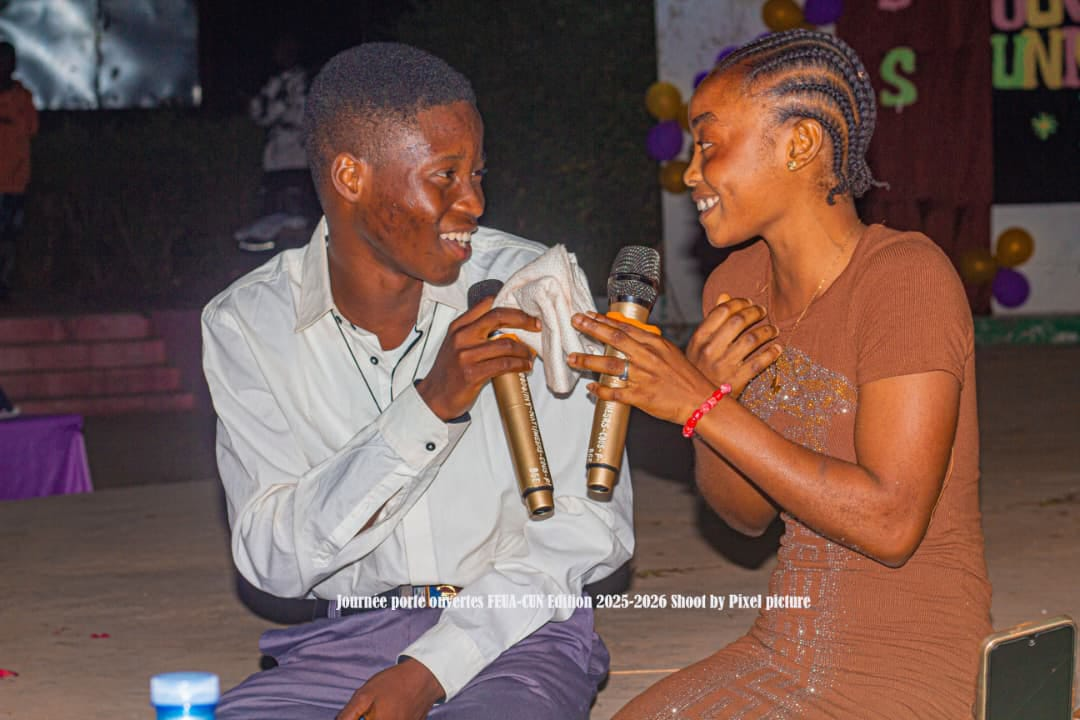
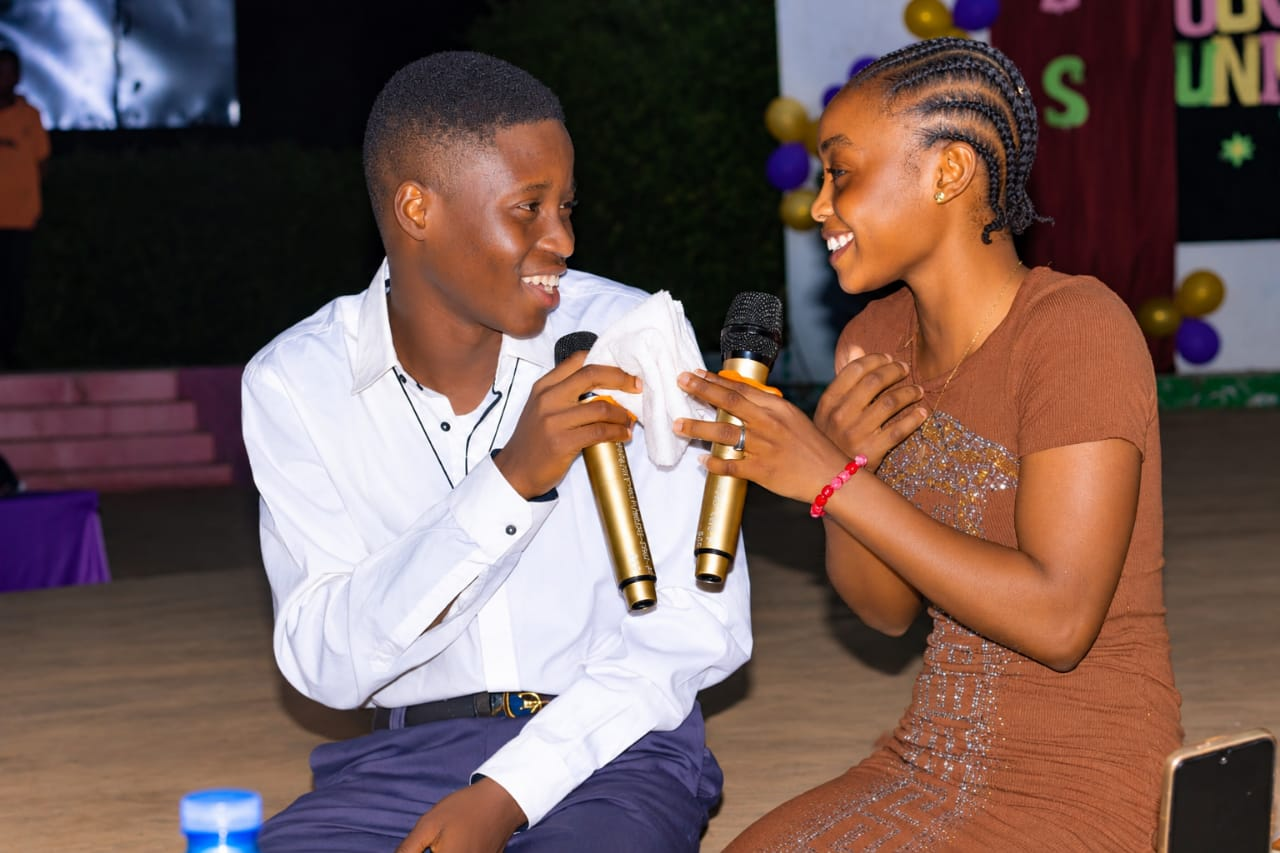
Ajout du champ Facebook (optionnel) au formulaire d'inscription

diff --git a/src/App.tsx b/src/App.tsx
@@ -289,11 +289,41 @@ function HomeScreen() {
   );
 }
 
+const FACEBOOK_GROUP_LINK_KEY = "ucae_facebook_group_link";
+
 function AdminScreen() {
   const [entries, setEntries] = useState<Array<Record<string, unknown>>>([]);
   const [loading, setLoading] = useState(true);
   const [error, setError] = useState("");
+  const [groupLink, setGroupLink] = useState(
+    () => window.localStorage.getItem(FACEBOOK_GROUP_LINK_KEY) ?? ""
+  );
+  const [copiedId, setCopiedId] = useState<string | null>(null);
   const navigate = useNavigate();
+
+  function handleGroupLinkChange(value: string) {
+    setGroupLink(value);
+    window.localStorage.setItem(FACEBOOK_GROUP_LINK_KEY, value);
+  }
+
+  async function handleOpenProfileAndCopy(entry: Record<string, unknown>) {
+    const nom = String(entry.nom ?? "");
+    const lien = groupLink || "[lien du groupe à renseigner ci-dessus]";
+    const message = `Salut ${nom}, bienvenue à l'UCAE ! Rejoins notre groupe Facebook ici : ${lien}`;
+    const entryKey = String(entry.id ?? nom);
+
+    try {
+      await navigator.clipboard.writeText(message);
+      setCopiedId(entryKey);
+      setTimeout(() => setCopiedId(null), 2000);
+    } catch {
+      window.prompt("Copie ce message manuellement :", message);
+    }
+
+    if (entry.facebook) {
+      window.open(String(entry.facebook), "_blank", "noopener,noreferrer");
+    }
+  }
 
   useEffect(() => {
     async function loadEntries() {
@@ -349,6 +379,7 @@ function AdminScreen() {
     entries.forEach((entry, index) => {
       const nom = String(entry.nom ?? "—");
       const tel = String(entry.tel ?? "—");
+      const facebook = String(entry.facebook ?? "—");
       const sessions = Array.isArray(entry.sessions) ? entry.sessions.join(", ") : "—";
       const message = String(entry.message ?? "—").replace(/\n/g, " ");
 
@@ -356,6 +387,8 @@ function AdminScreen() {
       doc.text(`${index + 1}. ${nom}`, 14, y);
       y += 8;
       doc.text(`Tél: ${tel}`, 14, y);
+      y += 8;
+      doc.text(`Facebook: ${facebook}`, 14, y);
       y += 8;
       doc.text(`Sessions: ${sessions}`, 14, y);
       y += 8;
@@ -390,6 +423,20 @@ function AdminScreen() {
           </div>
         </header>
 
+        <div className="admin-group-link" style={{ margin: "16px 0", display: "flex", flexDirection: "column", gap: 4 }}>
+          <label htmlFor="facebook-group-link" style={{ fontSize: 13, opacity: 0.8 }}>
+            Lien du groupe Facebook (utilisé pour générer les messages d'invitation)
+          </label>
+          <input
+            id="facebook-group-link"
+            type="url"
+            placeholder="https://facebook.com/groups/..."
+            value={groupLink}
+            onChange={(e) => handleGroupLinkChange(e.target.value)}
+            style={{ padding: "8px 12px", borderRadius: 6 }}
+          />
+        </div>
+
         {loading && <p className="admin-state">Chargement des inscriptions…</p>}
         {!loading && error && <p className="admin-error">{error}</p>}
 
@@ -406,19 +453,45 @@ function AdminScreen() {
                 <tr>
                   <th>Nom</th>
                   <th>Téléphone</th>
+                  <th>Facebook</th>
                   <th>Sessions</th>
                   <th>Message</th>
+                  <th>Groupe Facebook</th>
                 </tr>
               </thead>
               <tbody>
-                {entries.map((entry) => (
-                  <tr key={String(entry.id ?? entry.nom ?? Math.random())}>
-                    <td>{String(entry.nom ?? "—")}</td>
-                    <td>{String(entry.tel ?? "—")}</td>
-                    <td>{Array.isArray(entry.sessions) ? entry.sessions.join(", ") : "—"}</td>
-                    <td>{String(entry.message ?? "—")}</td>
-                  </tr>
-                ))}
+                {entries.map((entry) => {
+                  const entryKey = String(entry.id ?? entry.nom ?? Math.random());
+                  const hasFacebook = Boolean(entry.facebook);
+
+                  return (
+                    <tr key={entryKey}>
+                      <td>{String(entry.nom ?? "—")}</td>
+                      <td>{String(entry.tel ?? "—")}</td>
+                      <td>
+                        {hasFacebook ? (
+                          <a href={String(entry.facebook)} target="_blank" rel="noopener noreferrer">
+                            Voir le profil
+                          </a>
+                        ) : (
+                          "—"
+                        )}
+                      </td>
+                      <td>{Array.isArray(entry.sessions) ? entry.sessions.join(", ") : "—"}</td>
+                      <td>{String(entry.message ?? "—")}</td>
+                      <td>
+                        <button
+                          type="button"
+                          className="admin-download-btn"
+                          disabled={!hasFacebook}
+                          onClick={() => handleOpenProfileAndCopy(entry)}
+                        >
+                          {copiedId === entryKey ? "Message copié ✓ (onglet ouvert)" : "Ouvrir le profil"}
+                        </button>
+                      </td>
+                    </tr>
+                  );
+                })}
               </tbody>
             </table>
           </div>

diff --git a/src/components/AdhesionScreen.tsx b/src/components/AdhesionScreen.tsx
@@ -32,6 +32,7 @@ export default function AdhesionScreen() {
     const data = {
       nom: (form.elements.namedItem("nom") as HTMLInputElement).value,
       tel: (form.elements.namedItem("telephone") as HTMLInputElement)?.value ?? "",
+      facebook: (form.elements.namedItem("facebook") as HTMLInputElement)?.value ?? "",
       message: (form.elements.namedItem("message") as HTMLTextAreaElement)?.value ?? "",
       sessions: selectedSessions,
     };
@@ -89,8 +90,13 @@ export default function AdhesionScreen() {
               </label>
 
               <label className="field">
-                <span>Téléphone *</span>
+                <span>WhatsApp *</span>
                 <input name="telephone" type="tel" placeholder="+229 ..." required />
+              </label>
+
+              <label className="field">
+                <span>Lien Facebook</span>
+                <input name="facebook" type="url" placeholder="https://facebook.com/ton.profil (laisse vide si tu n'en as pas)" />
               </label>
             </div>
 

diff --git a/server/index.js b/server/index.js
@@ -74,7 +74,7 @@ async function handlePost(req, res) {
         try {
             const payload = rawBody ? JSON.parse(rawBody) : {};
 
-            const { nom, tel, message, sessions } = payload;
+            const { nom, tel, facebook, message, sessions } = payload;
 
             if (!nom || !tel || !message || !Array.isArray(sessions) || sessions.length === 0) {
                 sendJson(res, 400, { error: 'Champs requis: nom, tel, message, sessions.' });
@@ -88,6 +88,7 @@ async function handlePost(req, res) {
                 createdAt,
                 nom,
                 tel,
+                facebook: facebook || '',
                 message,
                 sessions,
             };
